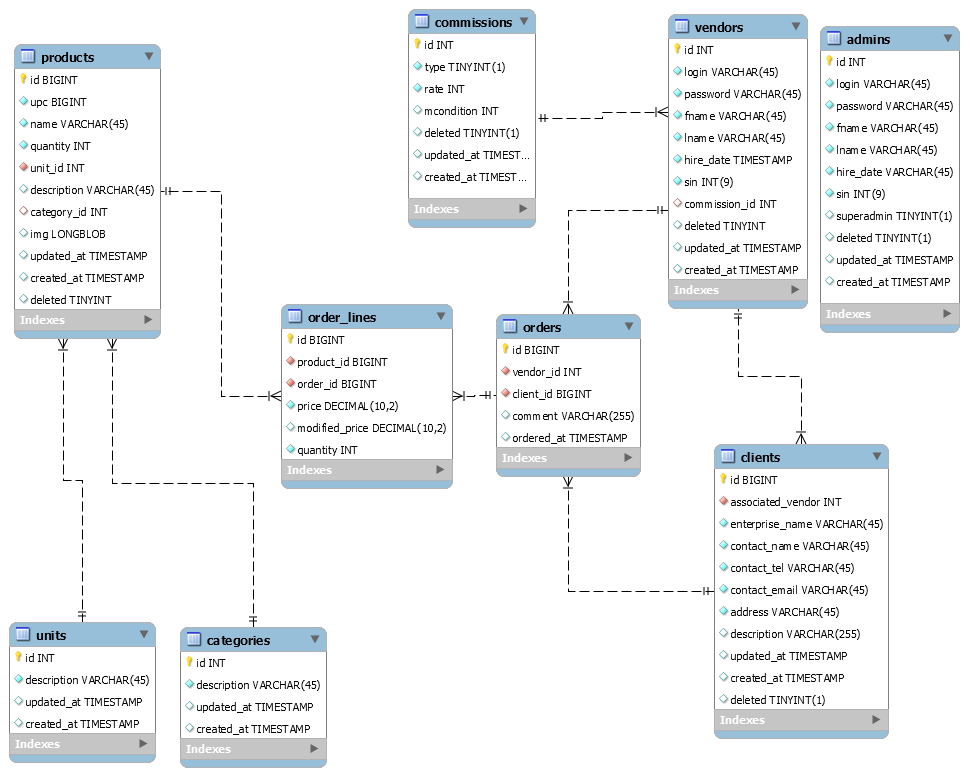
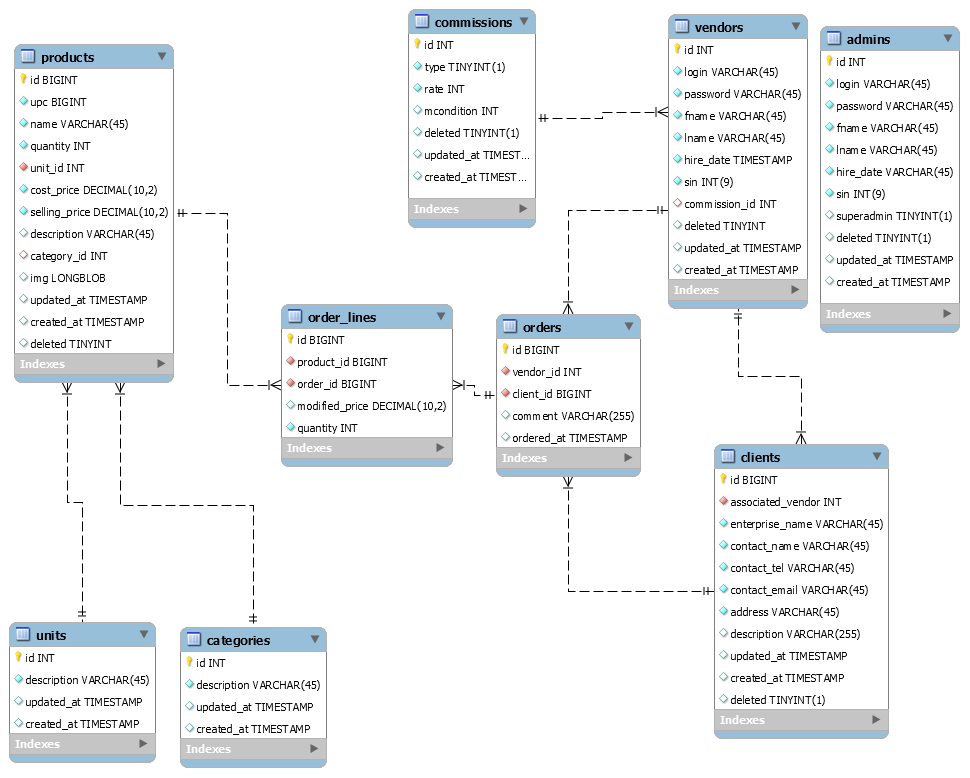
Added missing fields for products table

diff --git a/src/com/devsolutions/camelus/views/main.css b/src/com/devsolutions/camelus/views/main.css
@@ -1,7 +1,7 @@
 /* JavaFX CSS - Leave this comment until you have at least create one rule which uses -fx-Property */
 .root {
 		
-	-fx-font-smoothing-type: lcd;
+	-fx-font-smoothing-type: gray;
 	-fx-background-color: #FFFFFF;
 	-fx-font-family: 'Roboto Medium';
 	
@@ -63,7 +63,7 @@
 
 .flat-btn:hover {
 	-fx-background-color: #03A9F4;
-    -fx-effect: dropshadow(gaussian, rgba(0.0, 0.0, 0.0,0.3), 0.0,0.0,1.0,1.0); 
+    -fx-effect: dropshadow(three-pass-box, rgba(0.0, 0.0, 0.0,0.3), 0.0,0.0,1.0,1.0); 
 }
 
 .flat-btn:pressed {
@@ -146,8 +146,10 @@
 	
 	-fx-text-fill: #4099ff;
 }
-
-.custom-tooltip{
+.tooltip{
+	-fx-border-width: 1.0;
+	-fx-border-color: #727272;
+	-fx-font-size: 14.0;
 	-fx-padding: 5.0,5.0,5.0,5.0;
 	-fx-background-radius: 0.0;
 	-fx-border-radius: 0.0;

diff --git a/src/com/devsolutions/camelus/mappers/ProductMapper.java b/src/com/devsolutions/camelus/mappers/ProductMapper.java
@@ -17,12 +17,12 @@ public interface ProductMapper {
 	@Select("SELECT * FROM products WHERE id = #{id} ")
 	Product getById(long id);
 
-	@Insert("INSERT INTO products (upc, name, quantity, unit_id, description, category_id, img)"
-			+ " VALUES (#{upc}, #{name}, #{quantity}, #{unit_id}, #{description}, #{category_id}, #{img})")
+	@Insert("INSERT INTO products (upc, name, quantity, unit_id, cost_price, selling_price, description, category_id, img)"
+			+ " VALUES (#{upc}, #{name}, #{quantity}, #{unit_id},#{cost_price},#{selling_price}, #{description}, #{category_id}, #{img})")
 	@Options(flushCache = true)
 	void add(Product product);
 
-	@Update("UPDATE products SET upc = #{upc}, name = #{name}, quantity = #{quantity}, unit_id = #{unit_id}, description = #{description}, category_id = #{category_id}, img = #{img}, updated_at = CURRENT_TIMESTAMP WHERE id = #{id}")
+	@Update("UPDATE products SET upc = #{upc}, name = #{name}, quantity = #{quantity}, unit_id = #{unit_id}, cost_price = #{cost_price}, selling_price = #{selling_price}, description = #{description}, category_id = #{category_id}, img = #{img}, updated_at = CURRENT_TIMESTAMP WHERE id = #{id}")
 	@Options(flushCache = true)
 	void update(Product product);
 

diff --git a/src/com/devsolutions/camelus/mappers/OrderLineMapper.java b/src/com/devsolutions/camelus/mappers/OrderLineMapper.java
@@ -11,18 +11,20 @@ import com.devsolutions.camelus.entities.OrderLineTV;
 
 public interface OrderLineMapper {
 
-	/*@Select("SELECT * FROM order_lines WHERE order_id = #{order_id}")
-	List<OrderLine> getByOrderId(long order_id);*/
+	/*
+	 * @Select("SELECT * FROM order_lines WHERE order_id = #{order_id}")
+	 * List<OrderLine> getByOrderId(long order_id);
+	 */
 
-	@Select("SELECT upc, name, price, modified_price, order_lines.quantity"
+	@Select("SELECT upc, name,modified_price, order_lines.quantity"
 			+ " FROM order_lines INNER JOIN products ON order_lines.product_id = products.id"
 			+ " WHERE order_id = #{order_id}")
 	List<OrderLineTV> getByOrderId(long order_id);
-	
+
 	@Select("SELECT * FROM order_lines WHERE product_id = #{product_id}")
 	List<OrderLine> getByProductId(long product_id);
 
-	@Insert("INSERT INTO order_lines (product_id,order_id,price,modified_price,quantity) VALUES (#{product_id},#{order_id},#{price},#{modified_price},#{quantity})")
+	@Insert("INSERT INTO order_lines (product_id,order_id,modified_price,quantity) VALUES (#{product_id},#{order_id},#{modified_price},#{quantity})")
 	@Options(flushCache = true)
 	void add(OrderLine orderLine);
 

diff --git a/src/com/devsolutions/camelus/entities/Product.java b/src/com/devsolutions/camelus/entities/Product.java
@@ -9,6 +9,8 @@ public class Product {
 	private String name;
 	private int quantity;
 	private int unit_id;
+	private double cost_price;
+	private double selling_price;
 	private String description;
 	private int category_id;
 	private byte[] img;
@@ -54,6 +56,22 @@ public class Product {
 
 	public void setUnit_id(int unit_id) {
 		this.unit_id = unit_id;
+	}
+
+	public double getCost_price() {
+		return cost_price;
+	}
+
+	public void setCost_price(double cost_price) {
+		this.cost_price = cost_price;
+	}
+
+	public double getSelling_price() {
+		return selling_price;
+	}
+
+	public void setSelling_price(double selling_price) {
+		this.selling_price = selling_price;
 	}
 
 	public String getDescription() {

diff --git a/src/com/devsolutions/camelus/controllers/LoginController.java b/src/com/devsolutions/camelus/controllers/LoginController.java
@@ -6,6 +6,7 @@ import java.util.ResourceBundle;
 import javafx.fxml.FXML;
 import javafx.fxml.Initializable;
 import javafx.scene.control.Button;
+import javafx.stage.Stage;
 
 public class LoginController implements Initializable {
 
@@ -19,6 +20,12 @@ public class LoginController implements Initializable {
 	@Override
 	public void initialize(URL location, ResourceBundle resources) {
 
+	}
+
+	@FXML
+	private void CloseWindow() {
+		Stage stage = (Stage) loginbtn.getScene().getWindow();
+		stage.close();
 	}
 
 }

diff --git a/src/com/devsolutions/camelus/entities/OrderLine.java b/src/com/devsolutions/camelus/entities/OrderLine.java
@@ -4,7 +4,6 @@ public class OrderLine {
 	private long id;
 	private long product_id;
 	private long order_id;
-	private double price;
 	private double modified_price;
 	private int quantity;
 
@@ -30,14 +29,6 @@ public class OrderLine {
 
 	public void setOrder_id(long order_id) {
 		this.order_id = order_id;
-	}
-
-	public double getPrice() {
-		return price;
-	}
-
-	public void setPrice(double price) {
-		this.price = price;
 	}
 
 	public double getModified_price() {

diff --git a/src/test/OrderLineManagerTest.java b/src/test/OrderLineManagerTest.java
@@ -12,7 +12,6 @@ public class OrderLineManagerTest {
 		OrderLine orderLine = new OrderLine();
 		orderLine.setOrder_id(1);
 		orderLine.setProduct_id(1);
-		orderLine.setPrice(99.95);
 		orderLine.setQuantity(10);
 		orderLine.setModified_price(98.88);
 		OrderLineManager.add(orderLine);
